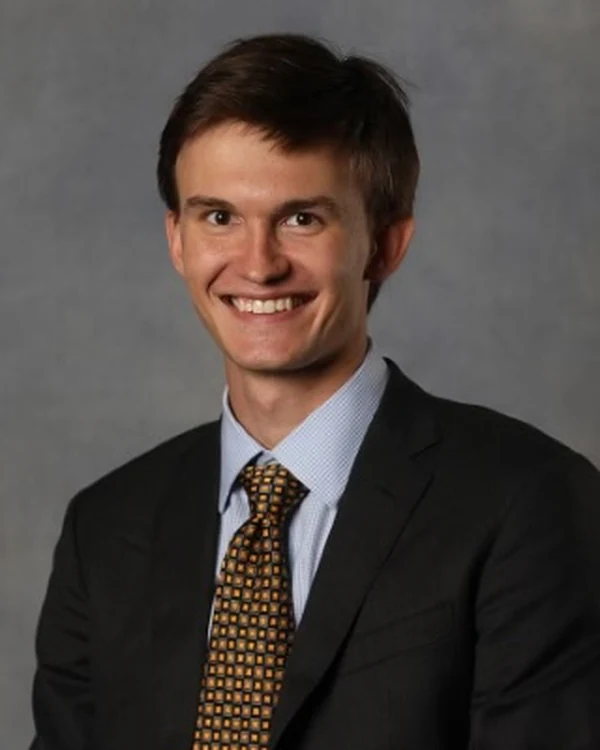
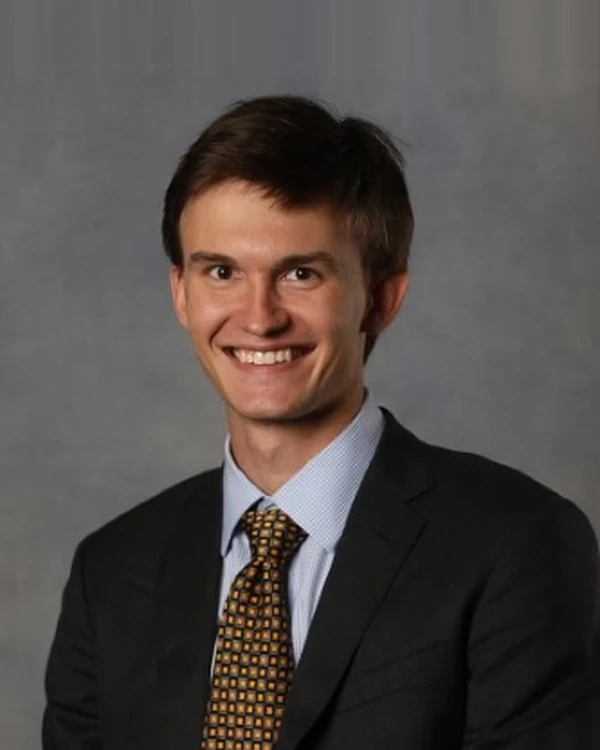
Lower Josh's head to align with team grid (added headroom, ?v=3)

Changed region(s): [[0.03, 0.0307, 1.0, 1.0], [0.78, 0.828, 0.81, 0.8587], [0.57, 0.828, 0.6, 0.8587]]

diff --git a/about.html b/about.html
@@ -148,7 +148,7 @@
         <div class="tinfo"><b>Elijah Wells</b><span>Co-Founder</span><a href="https://www.linkedin.com/in/elijahlwells/" class="tlink" target="_blank" rel="noopener" aria-label="Elijah Wells on LinkedIn"><svg viewBox="0 0 24 24" fill="currentColor" aria-hidden="true"><path d="M19 3a2 2 0 0 1 2 2v14a2 2 0 0 1-2 2H5a2 2 0 0 1-2-2V5a2 2 0 0 1 2-2h14zM8.34 9.67H5.67V18h2.67V9.67zM7 6.33a1.55 1.55 0 1 0 0 3.1 1.55 1.55 0 0 0 0-3.1zM18.33 13.4c0-2.3-1.23-3.37-2.87-3.37a2.48 2.48 0 0 0-2.25 1.24v-1.06H10.6V18h2.67v-4.39c0-1.16.22-2.28 1.65-2.28 1.42 0 1.44 1.33 1.44 2.36V18h2.67v-4.6z"/></svg> LinkedIn</a></div>
       </article>
       <article class="tmember">
-        <div class="tphoto"><img src="img/team/josh.webp?v=2" alt="Josh Kohn, Legal Counsel at Talos Operations" width="600" height="750" loading="lazy"></div>
+        <div class="tphoto"><img src="img/team/josh.webp?v=3" alt="Josh Kohn, Legal Counsel at Talos Operations" width="600" height="750" loading="lazy"></div>
         <div class="tinfo"><b>Josh Kohn</b><span>Legal Counsel</span><a href="https://www.linkedin.com/in/joshuakohn4/" class="tlink" target="_blank" rel="noopener" aria-label="Josh Kohn on LinkedIn"><svg viewBox="0 0 24 24" fill="currentColor" aria-hidden="true"><path d="M19 3a2 2 0 0 1 2 2v14a2 2 0 0 1-2 2H5a2 2 0 0 1-2-2V5a2 2 0 0 1 2-2h14zM8.34 9.67H5.67V18h2.67V9.67zM7 6.33a1.55 1.55 0 1 0 0 3.1 1.55 1.55 0 0 0 0-3.1zM18.33 13.4c0-2.3-1.23-3.37-2.87-3.37a2.48 2.48 0 0 0-2.25 1.24v-1.06H10.6V18h2.67v-4.39c0-1.16.22-2.28 1.65-2.28 1.42 0 1.44 1.33 1.44 2.36V18h2.67v-4.6z"/></svg> LinkedIn</a></div>
       </article>
       <article class="tmember">